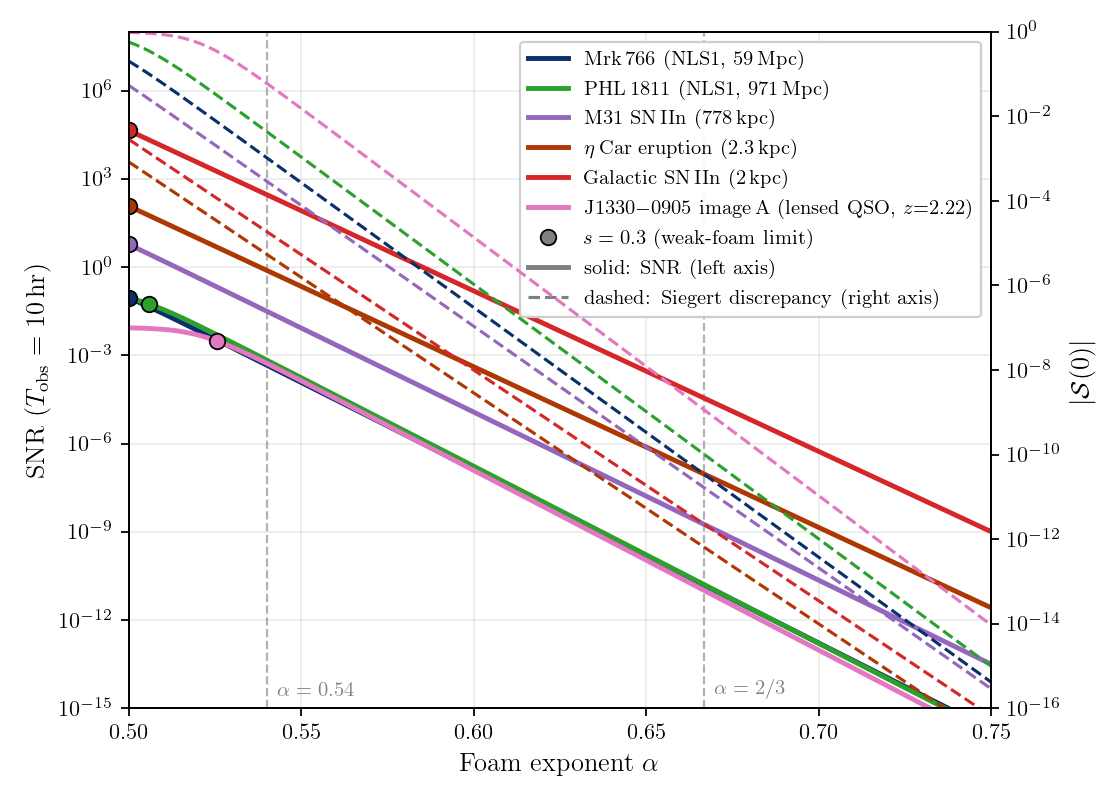
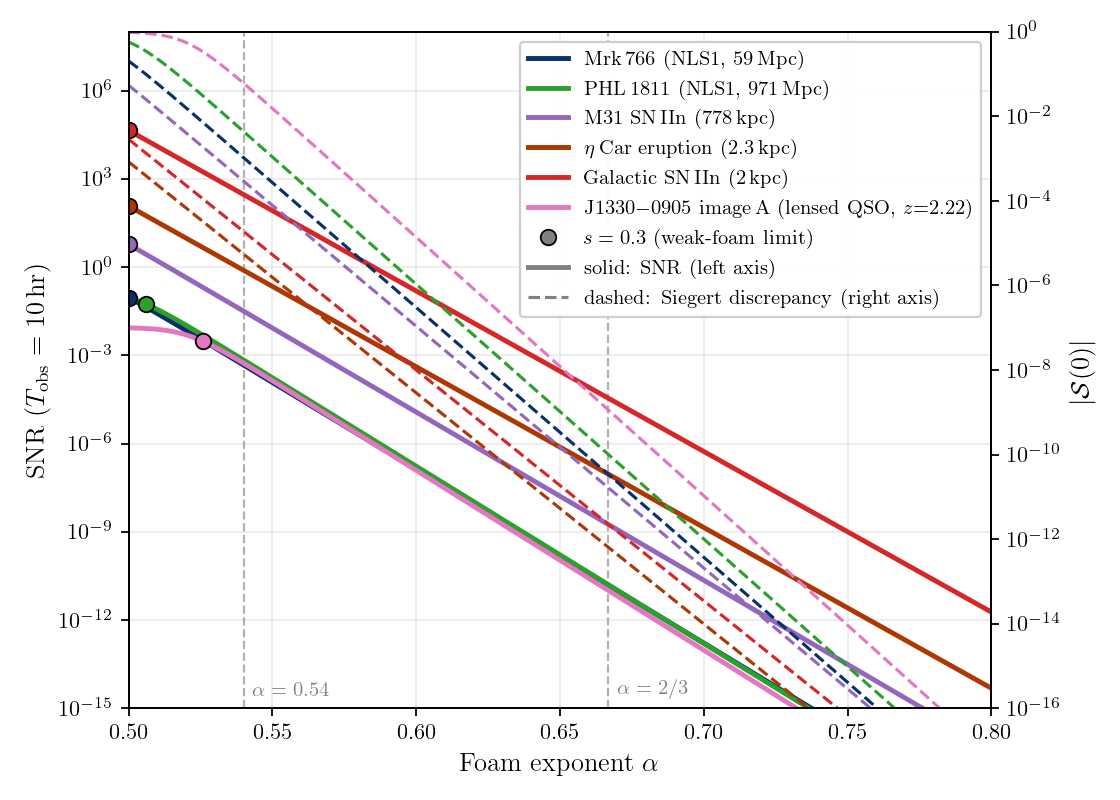
extend alpha x-axis to 0.5–0.8 in SNR vs alpha figures

diff --git a/docs/make_snr_alpha_figure.py b/docs/make_snr_alpha_figure.py
@@ -144,7 +144,7 @@ SOURCES = [
 ]
 
 T_obs = 10 * 3600.0   # 10 hr [s]
-alpha = np.linspace(0.50, 0.75, 500)
+alpha = np.linspace(0.50, 0.80, 500)
 
 
 # ---------------------------------------------------------------
@@ -257,7 +257,7 @@ def snr_from_signal(S_arr, R, tau_c):
 
 def make_axes():
     fig, ax = plt.subplots(figsize=(7, 5))
-    ax.set_xlim(0.50, 0.75)
+    ax.set_xlim(0.50, 0.80)
     ax.set_ylim(1e-15, 1e8)
     ax.set_xlabel(r'Foam exponent $\alpha$', fontsize=12)
     ax.set_ylabel(r'SNR  ($T_{\rm obs} = 10\,{\rm hr}$)', fontsize=12)
